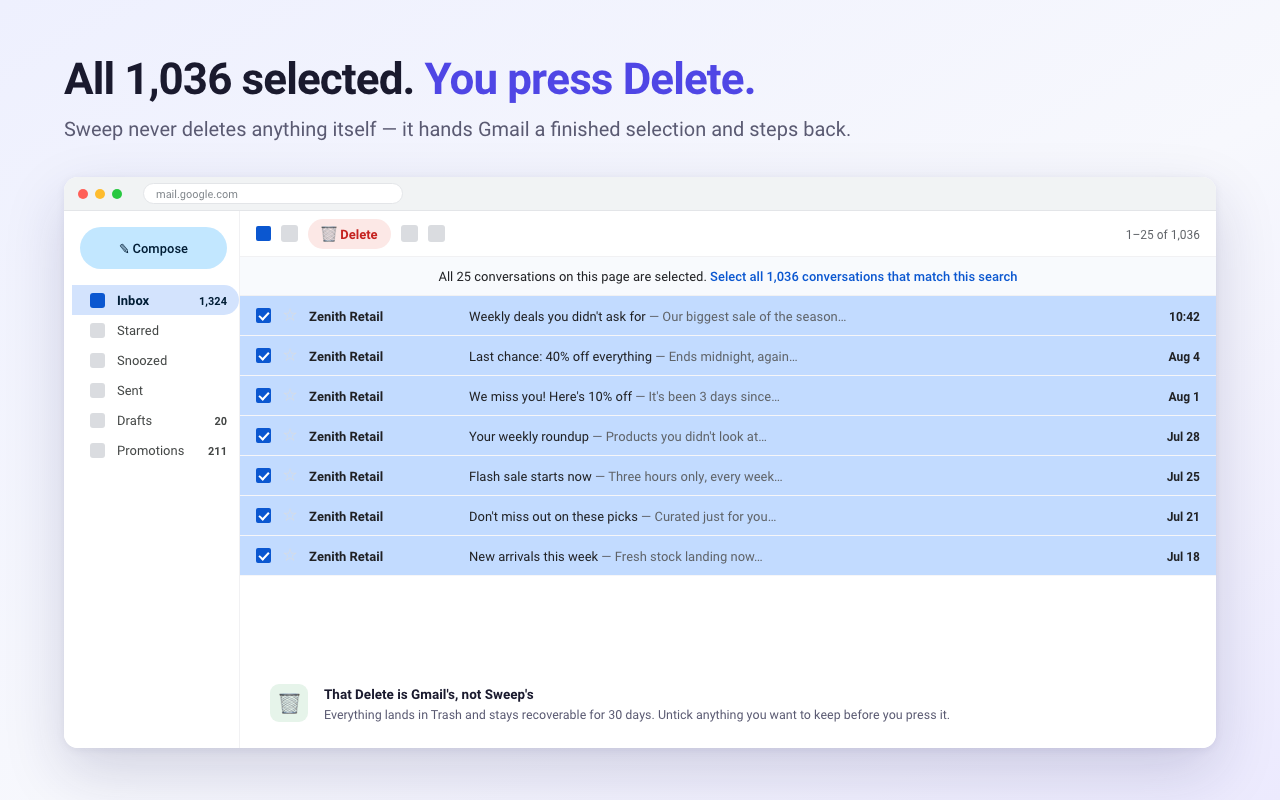
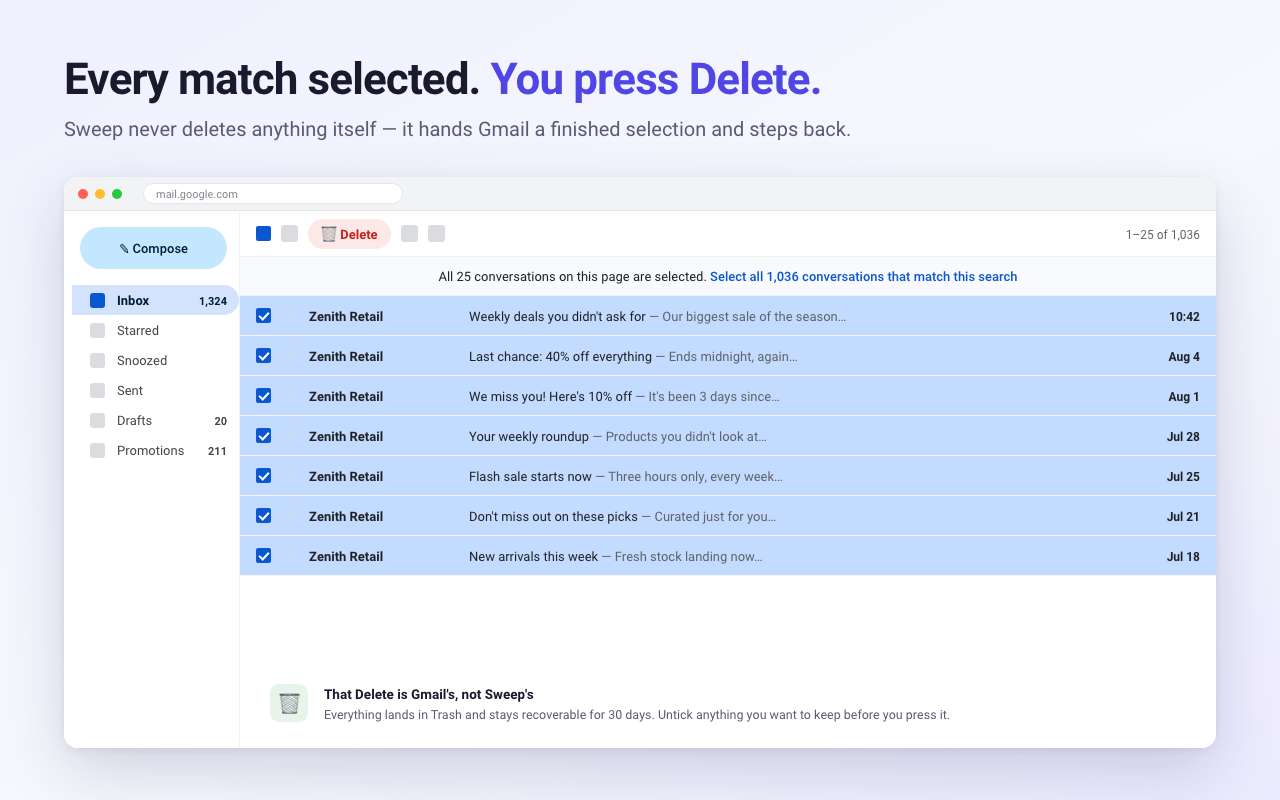
docs: stop quoting a made-up figure as if it were a spec
"all 1,036 matches" was an illustrative number from a test mailbox, but to a reader
who has never seen it before it parses as a product specification rather than an
example — and an oddly precise one.

Replaced wherever it read as a claim: the store description, the landing page, the
README, and the two screenshot captions. Copy now says "every match in your mailbox,
however many there are" and "not just the ones visible on screen".

Left in place where it is obviously sample data: the mock Gmail UI inside the
artwork, where "1–25 of 1,036" and Gmail's own "Select all 1,036 conversations that
match this search" banner are what a real screenshot would show, and the guide's
walkthrough, which is quoting Gmail's interface.

Also dropped the "25 on screen" phrasing — Gmail's page size is a user setting, so
naming a number there was wrong too.

Screenshots 1 and 3 re-rendered.

Changed region(s): [[0.0312, 0.0625, 0.6562, 0.125]]

diff --git a/assets/src/shot-1.html b/assets/src/shot-1.html
@@ -73,7 +73,7 @@
               </svg>
             </div>
             <div>
-              <div style="font-size:13.5px;font-weight:600;color:#1a1a2e">Similar finds all 1,036</div>
+              <div style="font-size:13.5px;font-weight:600;color:#1a1a2e">Similar finds every one</div>
               <div style="font-size:12.5px;color:#5a5a72;margin-top:2px">
                 Searches, waits for the results, ticks every one.
               </div>

diff --git a/docs/index.html b/docs/index.html
@@ -143,7 +143,7 @@
       <div class="step">
         <div class="n">2</div>
         <h3>Click Similar</h3>
-        <p>Sweep searches your mail, waits for the results, and ticks every match — all 1,036, not the 25 on screen.</p>
+        <p>Sweep searches your mail, waits for the results, and ticks every match — all of them, not just the ones on screen.</p>
       </div>
       <div class="step">
         <div class="n">3</div>

diff --git a/assets/src/shot-3.html b/assets/src/shot-3.html
@@ -5,7 +5,7 @@
 
 <div class="frame">
   <div class="caption">
-    <h1>All 1,036 selected. <em>You press Delete.</em></h1>
+    <h1>Every match selected. <em>You press Delete.</em></h1>
     <p>Sweep never deletes anything itself — it hands Gmail a finished selection and steps back.</p>
   </div>
 

diff --git a/CHROMEWEBSTORE.md b/CHROMEWEBSTORE.md
@@ -33,14 +33,14 @@ differentiator against every competitor that requires mailbox access.
 ```
 Sweep finds every email from the sender you are reading and selects the whole lot, so you can delete years of newsletters in two clicks.
 
-Open any email. Click Similar. Sweep searches your mail for that sender, waits for the results, and ticks every single match — not just the 25 on screen. Then you press Gmail's own Delete button.
+Open any email. Click Similar. Sweep searches your mail for that sender, waits for the results, and ticks every single match — not just the ones visible on screen. Then you press Gmail's own Delete button.
 
 WHAT IT DOES
 
 • One-click cleanup — open an email, click Similar, and every message from that sender is found and selected
 • Filter before you delete — narrow by age (7 days to 2 years), read state, size, or attachments
 • Keeps what matters — starred mail is protected by default, and you can protect important mail too
-• Selects everything, not just this page — all 1,036 matches, not the first 25
+• Selects everything, not just this page — every match in your mailbox, however many there are
 • Pagination where you need it — Gmail only shows Older / Newer at the top of a list; Sweep adds it at the bottom too, on every list and search
 
 HOW TO USE IT
@@ -123,7 +123,7 @@ Upload in this order — the first is what most people judge the extension on.
    Four years of it. Gone in two clicks."
 2. **Control.** The filter panel open, with the live query preview called out. Answers the
    "will this nuke something I need?" objection.
-3. **The payoff.** 1,036 conversations selected, Gmail's Delete highlighted. Makes clear
+3. **The payoff.** Every match selected, Gmail's Delete highlighted. Makes clear
    Sweep hands off rather than deleting on its own.
 4. **The bonus feature.** Bottom pagination, which no competitor has and which users notice
    daily.

diff --git a/README.md b/README.md
@@ -11,8 +11,8 @@ No sign-in · No inbox access · No data collected · Open source
 ---
 
 Open any email in Gmail, click **Similar**, and Sweep finds every other message from that
-sender and selects the lot — all 1,036 of them, not the 25 on screen. Then you press Gmail's
-own Delete.
+sender and selects the lot — every match, not just the ones on screen. Then you press
+Gmail's own Delete.
 
 It also adds the thing Gmail has never had: pagination at the _bottom_ of a message list.
 
